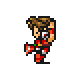
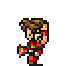
resized textures, fixed monsterlist

Changed region(s): [[0.2424, 0.1818, 0.7576, 1.0]]

diff --git a/web/main.dart b/web/main.dart
@@ -466,9 +466,9 @@ void testInitiativeAndBattleMenu()
 	players.add(new Player(Player.WARRIOR));
 
 	ObservableList<Monster> monsters = new ObservableList<Monster>();
-	monsters.add(new Monster(Monster.GOBLIN));
-	monsters.add(new Monster(Monster.GOBLIN));
-	monsters.add(new Monster(Monster.GOBLIN));
+	monsters.add(new Monster(Monster.LEAFER));
+	monsters.add(new Monster(Monster.LEAFER));
+	monsters.add(new Monster(Monster.LEAFER));
 
 	Initiative initiative = new Initiative(loop.stream, players, monsters);
 	StreamSubscription sub;
@@ -507,7 +507,11 @@ void testBasicAttack()
 
 	int getRandomSpeed()
 	{
-		int result = BattleUtils.getRandomNumberFromRange(20, 80);
+//		int min = 20;
+//		int max = 80;
+		int min = 80;
+		int max = 100;
+		int result = BattleUtils.getRandomNumberFromRange(min, max);
 		print("result: $result");
 		return result;
 //		new Random().nextInt(10);
@@ -519,9 +523,9 @@ void testBasicAttack()
 	players.add(new Player(characterType: Player.WARRIOR, name: 'Sabin', speed: getRandomSpeed()));
 
 	ObservableList<Monster> monsters = new ObservableList<Monster>();
-	monsters.add(new Monster(Monster.GOBLIN));
-	monsters.add(new Monster(Monster.GOBLIN));
-	monsters.add(new Monster(Monster.GOBLIN));
+	monsters.add(new Monster(Monster.LEAFER));
+	monsters.add(new Monster(Monster.LEAFER));
+	monsters.add(new Monster(Monster.LEAFER));
 
 	Initiative initiative = new Initiative(loop.stream, players, monsters);
 	StreamSubscription sub;
@@ -543,6 +547,14 @@ void testBasicAttack()
 		renderLoop: renderLoop
 	);
 	stage.addChild(characterList);
+
+	MonsterList monsterList = new MonsterList(
+		initiative: initiative,
+		resourceManager: resourceManager,
+		stage: stage,
+		renderLoop: renderLoop
+	);
+	stage.addChild(monsterList);
 
 	StreamSubscription streamSubscription;
 	StreamSubscription battleMenuStreamSubscription;
@@ -610,6 +622,7 @@ void testBasicAttack()
 //				print("attacking target: $target");
 				print("targetHitResult: ${targetHitResult.damage}");
 				Character lastCharacter = actingPlayer;
+				actingPlayer.hitPoints = actingPlayer.hitPoints - 1;
 				new Future.delayed(new Duration(seconds: 2), ()
 				{
 					print("actingPlayer's timer getting reset: $lastCharacter");
@@ -637,12 +650,15 @@ void testBasicAttack()
 	resourceManager.addTextureAtlas('warrior', 'images/warrior/warrior.json', TextureAtlasFormat.JSONARRAY);
 	resourceManager.addTextureAtlas('blackmage', 'images/blackmage/blackmage.json', TextureAtlasFormat.JSONARRAY);
 	resourceManager.addTextureAtlas('thief', 'images/thief/thief.json', TextureAtlasFormat.JSONARRAY);
+	resourceManager.addBitmapData("Leafer", "images/monsters/leafer.png");
+	resourceManager.addBitmapData("Areneid", "images/monsters/areneid.png");
 
 	resourceManager.load()
 	.then((_)
 	{
 		battleStateMachine.initialState = 'waiting';
 		characterList.init();
+		monsterList.init();
 	});
 }
 
@@ -657,9 +673,9 @@ void testBattleController()
 	players.add(new Player(Player.THIEF));
 
 	ObservableList<Monster> monsters = new ObservableList<Monster>();
-	monsters.add(new Monster(Monster.GOBLIN));
-	monsters.add(new Monster(Monster.GOBLIN));
-	monsters.add(new Monster(Monster.GOBLIN));
+	monsters.add(new Monster(Monster.LEAFER));
+	monsters.add(new Monster(Monster.LEAFER));
+	monsters.add(new Monster(Monster.LEAFER));
 
 	Initiative initiative = new Initiative(loop.stream, players, monsters);
 	BattleController battleController = new BattleController(initiative);

diff --git a/web/com/jessewarden/streamsarefun/components/MonsterList.dart b/web/com/jessewarden/streamsarefun/components/MonsterList.dart
@@ -15,10 +15,6 @@ class MonsterList extends DisplayObjectContainer
 	            Stage this.stage,
 	            RenderLoop this.renderLoop})
 	{
-		resourceManager.load().then((_)
-		{
-			init();
-		});
 	}
 
 	void init()
@@ -37,29 +33,17 @@ class MonsterList extends DisplayObjectContainer
 		initiative.monsters.forEach((Monster monster)
 		{
 			// create name
-			TextField nameField = new TextField();
-			nameField.defaultTextFormat = new TextFormat('Final Fantasy VI SNESa', 36, Color.Black);
-			nameField.text = monster.monsterType;
-			nameField.x = startXName;
-			nameField.y = startYName - 40 + 15;
-			nameField.width = 200;
-			nameField.height = 40;
-			startYName += 24;
-			nameField.wordWrap = false;
-			nameField.multiline = false;
-			addChild(nameField);
-
-			initiative.stream
-			.where((event)
-			{
-				return event is InitiativeEvent &&
-				event.type == InitiativeEvent.CHARACTER_READY;
-			})
-			.listen((event)
-			{
-				// TODO: AI here
-				print("monster ready: $event");
-			});
+//			TextField nameField = new TextField();
+//			nameField.defaultTextFormat = new TextFormat('Final Fantasy VI SNESa', 36, Color.Black);
+//			nameField.text = monster.monsterType;
+//			nameField.x = startXName;
+//			nameField.y = startYName - 40 + 15;
+//			nameField.width = 200;
+//			nameField.height = 40;
+//			startYName += 24;
+//			nameField.wordWrap = false;
+//			nameField.multiline = false;
+//			addChild(nameField);
 
 			// create sprite
 			Bitmap bitmap = new Bitmap(getBitmapForMonsterType(monster));
@@ -80,7 +64,7 @@ class MonsterList extends DisplayObjectContainer
 					}
 					else
 					{
-						color = Color.Green;
+						color = Color.Lime;
 					}
 					_textDropper.addTextDrop(bitmap, event.changeAmount, color: color);
 				}
@@ -90,12 +74,7 @@ class MonsterList extends DisplayObjectContainer
 
 	BitmapData getBitmapForMonsterType(Monster monster)
 	{
-		switch(monster.monsterType)
-		{
-			case Monster.TYPE_LEAFER:
-				return resourceManager.getBitmapData(Monster.TYPE_LEAFER);
-		}
-		return null;
+		return resourceManager.getBitmapData(monster.monsterType);
 	}
 
 //	void render(RenderState renderState)

diff --git a/web/com/jessewarden/streamsarefun/components/TextDropper.dart b/web/com/jessewarden/streamsarefun/components/TextDropper.dart
@@ -16,20 +16,23 @@ class TextDropper
 		_stage.addChild(field);
 		Point point = new Point(target.x, target.y);
 //		point = target.localToGlobal(point);
-		field.x = point.x + 2;
-		field.y = point.y;
+		field.x = point.x + (target.width / 2) - (field.width / 2);
+		field.y = point.y + target.height - field.height;
+//		field.border = true;
+//		field.borderColor = Color.Green;
 		field.text = value.toString();
 //		print("color: $color");
+		field.defaultTextFormat.align = "center";
 		field.defaultTextFormat.color = color;
 
 		// TODO: object pool these
-		Tween tweenUp = new Tween(field, 0.1, TransitionFunction.easeOutExponential);
-		tweenUp.animate.y.to(field.y - 10);
+		Tween tweenUp = new Tween(field, 0.25, TransitionFunction.easeOutExponential);
+		tweenUp.animate.y.to(field.y - 40);
 
-		Tween tweenDown = new Tween(field, 0.5, TransitionFunction.easeOutBounce);
-		tweenDown.animate.y.to(field.y + 10);
+		Tween tweenDown = new Tween(field, 0.45, TransitionFunction.easeOutBounce);
+		tweenDown.animate.y.to(field.y);
 
-		Tween tweenRemove = new Tween(field, 0.5);
+		Tween tweenRemove = new Tween(field, 0.6);
 		tweenRemove.onComplete = () => _cleanUp(field);
 
 		_renderLoop.juggler.addChain([tweenUp, tweenDown, tweenRemove]);
@@ -44,10 +47,10 @@ class TextDropper
 		else
 		{
 			TextField field = new TextField();
-			field.defaultTextFormat = new TextFormat('Final Fantasy VI SNESa', 26, Color.Black);
+			field.defaultTextFormat = new TextFormat('Final Fantasy VI SNESa', 52, Color.Black);
 			field.text = "???";
-			field.width = 220;
-			field.height = 30;
+			field.width = 56;
+			field.height = 56;
 			field.wordWrap = false;
 			field.multiline = false;
 			field.defaultTextFormat.strokeColor = Color.Black;

diff --git a/web/com/jessewarden/streamsarefun/sprites/SpriteSheet.dart b/web/com/jessewarden/streamsarefun/sprites/SpriteSheet.dart
@@ -34,10 +34,15 @@ abstract class SpriteSheet extends DisplayObjectContainer
 //         addChild(_bitmap);
 //	}
 
+//	Shape debugShape;
+
 	SpriteSheet()
 	{
 		_bitmap = new Bitmap();
 		addChild(_bitmap);
+
+//		debugShape = new Shape();
+//		addChild(debugShape);
 	}
 
 	void init(){}
@@ -85,5 +90,10 @@ abstract class SpriteSheet extends DisplayObjectContainer
 
 		BitmapData bitmapData = _textureAtlas.getBitmapData(currentCycle[_count]);
 		_bitmap.bitmapData = bitmapData;
+
+//		debugShape.graphics.clear();
+//		print("w: $width, h: $height");
+//		debugShape.graphics.rect(0, 0, width, height);
+//		debugShape.graphics.strokeColor(Color.Red, 2);
 	}
 }

diff --git a/web/com/jessewarden/streamsarefun/battle/Character.dart b/web/com/jessewarden/streamsarefun/battle/Character.dart
@@ -123,9 +123,10 @@ class Character
 		if(_hitPoints != newValue)
 		{
 			_hitPoints = newValue;
-			CharacterEvent hitPointsEvent = new CharacterEvent(type: CharacterEvent.HIT_POINTS_CHANGED, target: this);
-			hitPointsEvent.changeAmount = oldValue - newValue;
-			_controller.add(new CharacterEvent(type: CharacterEvent.HIT_POINTS_CHANGED, target: this));
+			_controller.add(new CharacterEvent(
+				type: CharacterEvent.HIT_POINTS_CHANGED,
+				target: this,
+				changeAmount: oldValue - newValue));
 			if(oldValue <= 0 && newValue >= 1)
 			{
 				dead = false;

diff --git a/web/com/jessewarden/streamsarefun/battle/Monster.dart b/web/com/jessewarden/streamsarefun/battle/Monster.dart
@@ -2,8 +2,8 @@ part of battlecore;
 
 class Monster extends Character
 {
-	static const String GOBLIN = "Goblin";
-	static const String SILVER_LOBO = "Silver Lobo";
+	static const String LEAFER = "Leafer";
+	static const String ARENEID = "Areneid";
 
 	String monsterType;
 

diff --git a/web/com/jessewarden/streamsarefun/battle/CharacterEvent.dart b/web/com/jessewarden/streamsarefun/battle/CharacterEvent.dart
@@ -21,5 +21,6 @@ class CharacterEvent
 	               BattleState this.oldBattleState,
 	               BattleState this.newBattleState,
 					Row this.oldRow,
-					Row this.newRow}){}
+					Row this.newRow,
+					int this.changeAmount}){}
 }

diff --git a/web/com/jessewarden/streamsarefun/components/CharacterList.dart b/web/com/jessewarden/streamsarefun/components/CharacterList.dart
@@ -104,7 +104,7 @@ class CharacterList extends DisplayObjectContainer
 					}
 					else
 					{
-						color = Color.Green;
+						color = Color.Lime;
 					}
 					_textDropper.addTextDrop(sheet, event.changeAmount, color: color);
 				}

diff --git a/web/com/jessewarden/streamsarefun/components/components.dart b/web/com/jessewarden/streamsarefun/components/components.dart
@@ -12,6 +12,7 @@ import '../managers/managers.dart';
 part 'TextDropper.dart';
 part 'BattleTimerBar.dart';
 part 'CharacterList.dart';
+part 'MonsterList.dart';
 part 'MenuItem.dart';
 part 'Menu.dart';
 part 'BattleMenu.dart';
